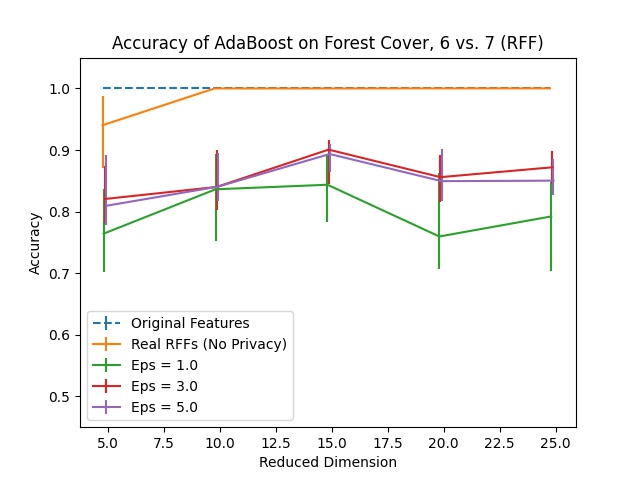
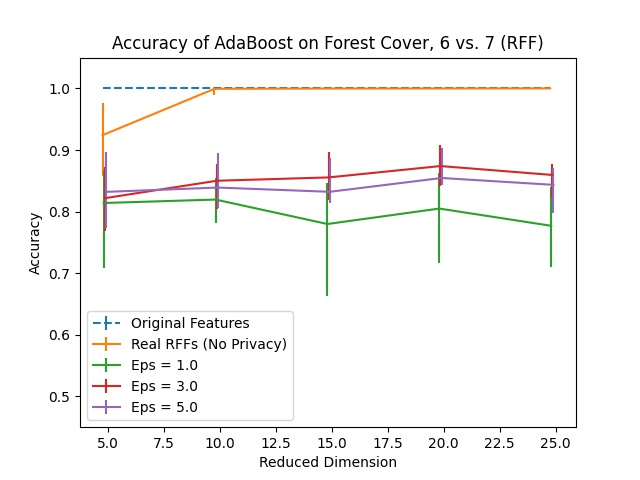
Set up mnist01 pca clip experiments

diff --git a/multi-dim-featcreation/Submission_Plots/Replot.py b/multi-dim-featcreation/Submission_Plots/Replot.py
@@ -6,11 +6,11 @@ algs = ['AdaBoost']
 num_trials = 25
 total_eps_list = [1.0, 2.0, 3.0, 4.0, 5.0]
 for alg in algs:
-	alg_df = pd.read_csv('covtype67_pca_centeredclip_%s_trials=%i.csv' % (alg.lower(), num_trials))
+	alg_df = pd.read_csv('covtype67_rffrealclip_%s_trials=%i.csv' % (alg.lower(), num_trials))
 	alg_df = alg_df.set_index('Dimension')
 	print(alg_df)
 
-	file = 'covtype67_pca_centeredclip_%s_trials=%i' % (alg.lower(), num_trials)
+	file = 'covtype67_rffrealclip_%s_trials=%i' % (alg.lower(), num_trials)
 	alg_df.to_csv('%s.csv' % file)
 	shift = -0.25
 
@@ -18,10 +18,10 @@ for alg in algs:
 	plt.ylim((0.45, 1.05))
 	plt.errorbar(alg_df.index + shift, alg_df['Original Features'], \
 		yerr = np.zeros(shape = (2, len(alg_df))), label = 'Original Features', linestyle = 'dashed')
-	plt.errorbar(alg_df.index + shift, alg_df['PCA'], \
-		yerr = np.zeros(shape = (2, len(alg_df))), label = 'PCA (No Privacy)')
-	# plt.errorbar(alg_df.index + shift, alg_df['RFF Real'], \
-	# 	yerr = alg_df[['RFF Real 25', 'RFF Real 75']].to_numpy().T, label = 'Real RFFs (No Privacy)')
+	# plt.errorbar(alg_df.index + shift, alg_df['PCA'], \
+	# 	yerr = np.zeros(shape = (2, len(alg_df))), label = 'PCA (No Privacy)')
+	plt.errorbar(alg_df.index + shift, alg_df['RFF Real'], \
+		yerr = alg_df[['RFF Real 25', 'RFF Real 75']].to_numpy().T, label = 'Real RFFs (No Privacy)')
 	shift += 0.05
 	for total_eps in total_eps_list:
 		if total_eps == 2.0 or total_eps == 4.0:
@@ -32,7 +32,7 @@ for alg in algs:
 
 	plt.xlabel("Reduced Dimension")
 	plt.ylabel("Accuracy")
-	plt.title('Accuracy of AdaBoost on Forest Cover, 6 vs. 7 (PCA)')
+	plt.title('Accuracy of AdaBoost on Forest Cover, 6 vs. 7 (RFF)')
 	plt.legend(loc = "lower left")
 	plt.savefig('%s.jpg' % file)
 	plt.close()

diff --git a/multi-dim-featcreation/mnist01_all_experiments/mnist01_privatepca.py b/multi-dim-featcreation/mnist01_all_experiments/mnist01_privatepca.py
@@ -174,10 +174,16 @@ if __name__ == "__main__":
 				f_train_priv = np.matmul(f_train, priv_pca)
 				f_test_priv = np.matmul(f_test, priv_pca)
 
+				perc05 = np.percentile(f_train_priv, 5, axis = 0 , keepdims = True)
+				perc95 = np.percentile(f_train_priv, 95, axis = 0 , keepdims = True)
+				f_train_priv = np.clip(f_train_priv, a_min = perc05, a_max = perc95)
 				sens_list = get_sens_list(f_train_priv)
 				f_train_priv = pd.DataFrame(data = f_train_priv, index = index_train, columns = ["Comp %i" % (i + 1) for i in range(dim)])
+				
 				dp_join = DP_Join(eps_memb, eps_val, sens_list, 'Real')
 				dp_join.join(l_train, f_train_priv)
+				dp_join.features = np.clip(dp_join.features, a_min = perc05, a_max = perc95)
+				f_test_priv = np.clip(f_test_priv, a_min = perc05, a_max = perc95)
 
 				for alg in algs:
 					trial_dict[alg].append(get_loss(dp_join.features, dp_join.labels, f_test_priv, l_test, alg))
@@ -194,7 +200,7 @@ if __name__ == "__main__":
 		alg_df = alg_df
 		print(alg_df)
 
-		file = 'mnist01_pca_centered_smalldim_%s_trials=%i' % (alg.lower(), num_trials)
+		file = 'mnist01_pca_centeredclip_smalldim_%s_trials=%i' % (alg.lower(), num_trials)
 		alg_df.to_csv('%s.csv' % file)
 		shift = -0.25
 		plt.ylim((0.0, 1.0))
